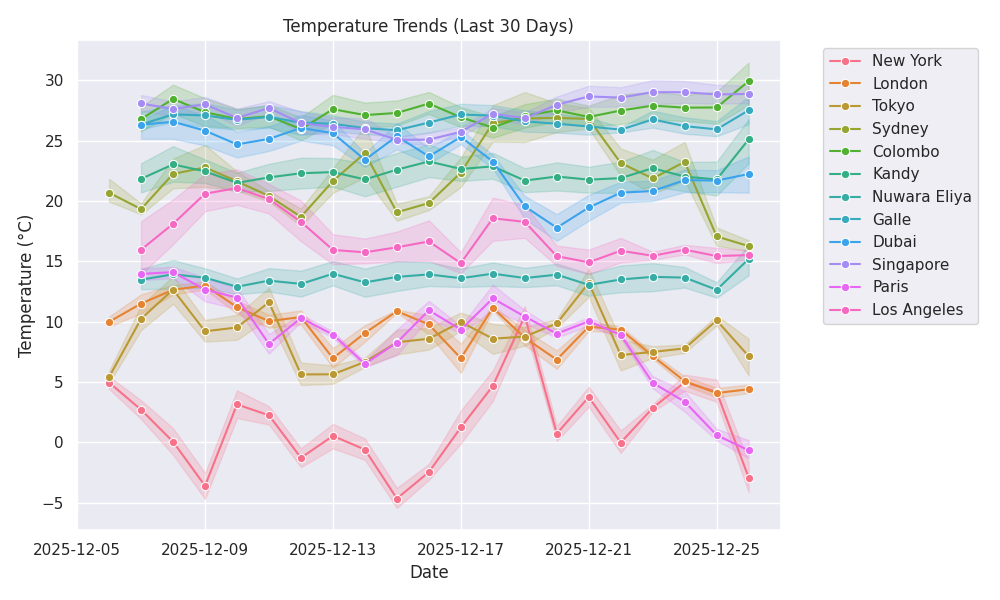
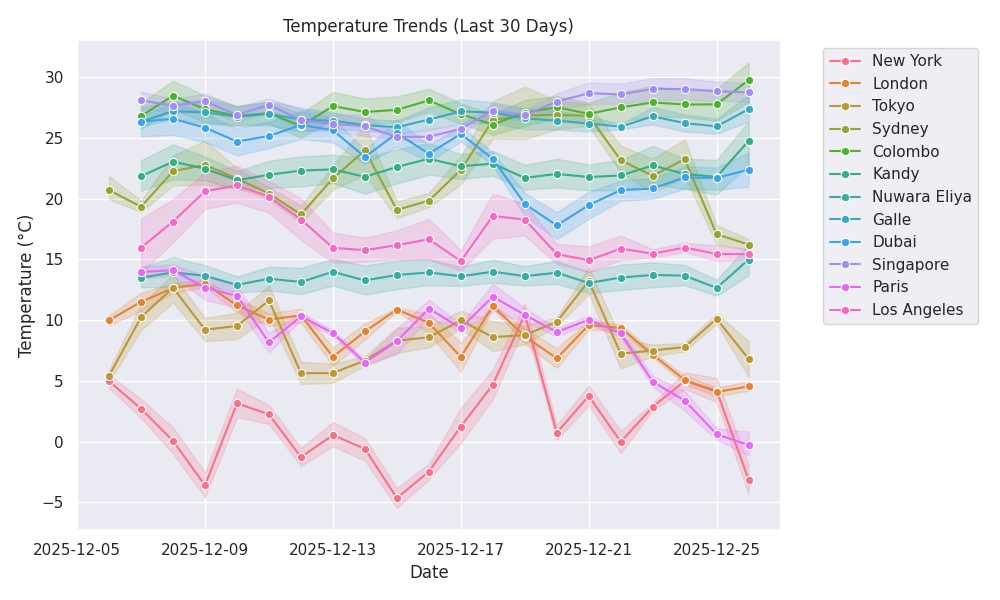
🌦 Weather update: 2025-12-26 13:28

diff --git a/public/index.html b/public/index.html
@@ -11,7 +11,7 @@
     <div class="max-w-6xl mx-auto">
         <header class="mb-8 text-center">
             <h1 class="text-4xl font-bold mb-2">🌍 Global Weather Dashboard</h1>
-            <p class="text-slate-400">Last Updated: 2025-12-26 12:26:13</p>
+            <p class="text-slate-400">Last Updated: 2025-12-26 13:28:01</p>
         </header>
         
         <!-- AI Summary -->
@@ -29,27 +29,27 @@
                     <span class="text-3xl">☀</span>
                 </div>
                 <div class="mt-4">
-                    <p class="text-4xl font-bold">2.29°C</p>
+                    <p class="text-4xl font-bold">3.87°C</p>
                     <p class="text-slate-400 capitalize">clear sky</p>
                 </div>
                 <div class="mt-4 text-sm text-slate-500">
-                    <p>💧 Humidity: 77%</p>
-                    <p>💨 Wind: 4.63 m/s</p>
+                    <p>💧 Humidity: 73%</p>
+                    <p>💨 Wind: 4.12 m/s</p>
                 </div>
             </div>
             
             <div class="bg-slate-800 p-6 rounded-xl shadow-lg border-t-4 border-blue-500 hover:scale-105 transition-transform">
                 <div class="flex justify-between items-start">
                     <h3 class="text-xl font-bold">London</h3>
-                    <span class="text-3xl">☁</span>
+                    <span class="text-3xl">☀</span>
                 </div>
                 <div class="mt-4">
-                    <p class="text-4xl font-bold">5.66°C</p>
-                    <p class="text-slate-400 capitalize">broken clouds</p>
+                    <p class="text-4xl font-bold">6.04°C</p>
+                    <p class="text-slate-400 capitalize">clear sky</p>
                 </div>
                 <div class="mt-4 text-sm text-slate-500">
                     <p>💧 Humidity: 78%</p>
-                    <p>💨 Wind: 4.02 m/s</p>
+                    <p>💨 Wind: 6.69 m/s</p>
                 </div>
             </div>
             
@@ -59,12 +59,12 @@
                     <span class="text-3xl">☁</span>
                 </div>
                 <div class="mt-4">
-                    <p class="text-4xl font-bold">15.66°C</p>
-                    <p class="text-slate-400 capitalize">few clouds</p>
+                    <p class="text-4xl font-bold">15.67°C</p>
+                    <p class="text-slate-400 capitalize">scattered clouds</p>
                 </div>
                 <div class="mt-4 text-sm text-slate-500">
                     <p>💧 Humidity: 61%</p>
-                    <p>💨 Wind: 4.63 m/s</p>
+                    <p>💨 Wind: 0.89 m/s</p>
                 </div>
             </div>
             
@@ -74,26 +74,26 @@
                     <span class="text-3xl">☁</span>
                 </div>
                 <div class="mt-4">
-                    <p class="text-4xl font-bold">27.5°C</p>
+                    <p class="text-4xl font-bold">27.11°C</p>
                     <p class="text-slate-400 capitalize">scattered clouds</p>
                 </div>
                 <div class="mt-4 text-sm text-slate-500">
-                    <p>💧 Humidity: 85%</p>
-                    <p>💨 Wind: 4.12 m/s</p>
+                    <p>💧 Humidity: 86%</p>
+                    <p>💨 Wind: 2.06 m/s</p>
                 </div>
             </div>
             
             <div class="bg-slate-800 p-6 rounded-xl shadow-lg border-t-4 border-blue-500 hover:scale-105 transition-transform">
                 <div class="flex justify-between items-start">
                     <h3 class="text-xl font-bold">Dubai</h3>
-                    <span class="text-3xl">☁</span>
+                    <span class="text-3xl">☀</span>
                 </div>
                 <div class="mt-4">
-                    <p class="text-4xl font-bold">24.96°C</p>
-                    <p class="text-slate-400 capitalize">few clouds</p>
+                    <p class="text-4xl font-bold">23.96°C</p>
+                    <p class="text-slate-400 capitalize">clear sky</p>
                 </div>
                 <div class="mt-4 text-sm text-slate-500">
-                    <p>💧 Humidity: 47%</p>
+                    <p>💧 Humidity: 53%</p>
                     <p>💨 Wind: 4.12 m/s</p>
                 </div>
             </div>
@@ -104,12 +104,12 @@
                     <span class="text-3xl">☁</span>
                 </div>
                 <div class="mt-4">
-                    <p class="text-4xl font-bold">26.11°C</p>
-                    <p class="text-slate-400 capitalize">overcast clouds</p>
+                    <p class="text-4xl font-bold">25.54°C</p>
+                    <p class="text-slate-400 capitalize">broken clouds</p>
                 </div>
                 <div class="mt-4 text-sm text-slate-500">
-                    <p>💧 Humidity: 80%</p>
-                    <p>💨 Wind: 2.65 m/s</p>
+                    <p>💧 Humidity: 84%</p>
+                    <p>💨 Wind: 2.68 m/s</p>
                 </div>
             </div>
             
@@ -119,12 +119,12 @@
                     <span class="text-3xl">☁</span>
                 </div>
                 <div class="mt-4">
-                    <p class="text-4xl font-bold">13.69°C</p>
+                    <p class="text-4xl font-bold">12.68°C</p>
                     <p class="text-slate-400 capitalize">overcast clouds</p>
                 </div>
                 <div class="mt-4 text-sm text-slate-500">
-                    <p>💧 Humidity: 86%</p>
-                    <p>💨 Wind: 1.14 m/s</p>
+                    <p>💧 Humidity: 91%</p>
+                    <p>💨 Wind: 1.21 m/s</p>
                 </div>
             </div>
             
@@ -134,12 +134,12 @@
                     <span class="text-3xl">☁</span>
                 </div>
                 <div class="mt-4">
-                    <p class="text-4xl font-bold">23.17°C</p>
+                    <p class="text-4xl font-bold">20.75°C</p>
                     <p class="text-slate-400 capitalize">overcast clouds</p>
                 </div>
                 <div class="mt-4 text-sm text-slate-500">
-                    <p>💧 Humidity: 77%</p>
-                    <p>💨 Wind: 2.09 m/s</p>
+                    <p>💧 Humidity: 89%</p>
+                    <p>💨 Wind: 1.99 m/s</p>
                 </div>
             </div>
             
@@ -149,12 +149,12 @@
                     <span class="text-3xl">☁</span>
                 </div>
                 <div class="mt-4">
-                    <p class="text-4xl font-bold">29.46°C</p>
-                    <p class="text-slate-400 capitalize">overcast clouds</p>
+                    <p class="text-4xl font-bold">27.8°C</p>
+                    <p class="text-slate-400 capitalize">scattered clouds</p>
                 </div>
                 <div class="mt-4 text-sm text-slate-500">
-                    <p>💧 Humidity: 71%</p>
-                    <p>💨 Wind: 6.38 m/s</p>
+                    <p>💧 Humidity: 78%</p>
+                    <p>💨 Wind: 6.47 m/s</p>
                 </div>
             </div>
             
@@ -164,12 +164,12 @@
                     <span class="text-3xl">☀</span>
                 </div>
                 <div class="mt-4">
-                    <p class="text-4xl font-bold">-5.81°C</p>
+                    <p class="text-4xl font-bold">-5.72°C</p>
                     <p class="text-slate-400 capitalize">clear sky</p>
                 </div>
                 <div class="mt-4 text-sm text-slate-500">
-                    <p>💧 Humidity: 57%</p>
-                    <p>💨 Wind: 7.72 m/s</p>
+                    <p>💧 Humidity: 54%</p>
+                    <p>💨 Wind: 7.2 m/s</p>
                 </div>
             </div>
             
@@ -179,27 +179,27 @@
                     <span class="text-3xl">☀</span>
                 </div>
                 <div class="mt-4">
-                    <p class="text-4xl font-bold">3.37°C</p>
+                    <p class="text-4xl font-bold">2.97°C</p>
                     <p class="text-slate-400 capitalize">clear sky</p>
                 </div>
                 <div class="mt-4 text-sm text-slate-500">
                     <p>💧 Humidity: 43%</p>
-                    <p>💨 Wind: 8.75 m/s</p>
+                    <p>💨 Wind: 9.26 m/s</p>
                 </div>
             </div>
             
             <div class="bg-slate-800 p-6 rounded-xl shadow-lg border-t-4 border-blue-500 hover:scale-105 transition-transform">
                 <div class="flex justify-between items-start">
                     <h3 class="text-xl font-bold">Los Angeles</h3>
-                    <span class="text-3xl">🌧</span>
+                    <span class="text-3xl">☁</span>
                 </div>
                 <div class="mt-4">
-                    <p class="text-4xl font-bold">14.44°C</p>
-                    <p class="text-slate-400 capitalize">light rain</p>
+                    <p class="text-4xl font-bold">14.39°C</p>
+                    <p class="text-slate-400 capitalize">overcast clouds</p>
                 </div>
                 <div class="mt-4 text-sm text-slate-500">
                     <p>💧 Humidity: 95%</p>
-                    <p>💨 Wind: 3.6 m/s</p>
+                    <p>💨 Wind: 5.14 m/s</p>
                 </div>
             </div>
             

diff --git a/README.md b/README.md
@@ -8,8 +8,8 @@
 
 ---
 
-## ⚡ Live Status (Updated: 2025-12-26 12:26 UTC)
-![Paris](https://img.shields.io/badge/Paris-2.29°C-blue) ![London](https://img.shields.io/badge/London-5.66°C-blue) ![Sydney](https://img.shields.io/badge/Sydney-15.66°C-green) ![Singapore](https://img.shields.io/badge/Singapore-27.5°C-orange) ![Dubai](https://img.shields.io/badge/Dubai-24.96°C-green) ![Galle](https://img.shields.io/badge/Galle-26.11°C-orange) ![Nuwara Eliya](https://img.shields.io/badge/Nuwara%20Eliya-13.69°C-blue) ![Kandy](https://img.shields.io/badge/Kandy-23.17°C-green) ![Colombo](https://img.shields.io/badge/Colombo-29.46°C-orange) ![New York](https://img.shields.io/badge/New%20York--5.81°C-blue) ![Tokyo](https://img.shields.io/badge/Tokyo-3.37°C-blue) ![Los Angeles](https://img.shields.io/badge/Los%20Angeles-14.44°C-blue) 
+## ⚡ Live Status (Updated: 2025-12-26 13:28 UTC)
+![Paris](https://img.shields.io/badge/Paris-3.87°C-blue) ![London](https://img.shields.io/badge/London-6.04°C-blue) ![Sydney](https://img.shields.io/badge/Sydney-15.67°C-green) ![Singapore](https://img.shields.io/badge/Singapore-27.11°C-orange) ![Dubai](https://img.shields.io/badge/Dubai-23.96°C-green) ![Galle](https://img.shields.io/badge/Galle-25.54°C-orange) ![Nuwara Eliya](https://img.shields.io/badge/Nuwara%20Eliya-12.68°C-blue) ![Kandy](https://img.shields.io/badge/Kandy-20.75°C-green) ![Colombo](https://img.shields.io/badge/Colombo-27.8°C-orange) ![New York](https://img.shields.io/badge/New%20York--5.72°C-blue) ![Tokyo](https://img.shields.io/badge/Tokyo-2.97°C-blue) ![Los Angeles](https://img.shields.io/badge/Los%20Angeles-14.39°C-blue) 
 
 <div align="center">
   <h3>🏆 Weather Records (Live)</h3>
@@ -19,8 +19,8 @@
         <td align="center">❄ <b>Coldest City</b></td>
     </tr>
     <tr>
-        <td align="center"><b>Colombo</b><br>29.46°C</td>
-        <td align="center"><b>New York</b><br>-5.81°C</td>
+        <td align="center"><b>Colombo</b><br>27.8°C</td>
+        <td align="center"><b>New York</b><br>-5.72°C</td>
     </tr>
   </table>
 </div>
@@ -28,18 +28,18 @@
 ## 📊 Global Overview
 | 🌍 City | 🌡 Temp | 🌤 Condition | 💧 Humidity | 🌬 Wind |
 |---|---|---|---|---|
-| **Paris** | 2.29°C | clear sky | 🟦🟦🟦⬜⬜ 77% | 4.63 m/s |
-| **London** | 5.66°C | broken clouds | 🟦🟦🟦⬜⬜ 78% | 4.02 m/s |
-| **Sydney** | 15.66°C | few clouds | 🟦🟦🟦⬜⬜ 61% | 4.63 m/s |
-| **Singapore** | 27.5°C | scattered clouds | 🟦🟦🟦🟦⬜ 85% | 4.12 m/s |
-| **Dubai** | 24.96°C | few clouds | 🟦🟦⬜⬜⬜ 47% | 4.12 m/s |
-| **Galle** | 26.11°C | overcast clouds | 🟦🟦🟦🟦⬜ 80% | 2.65 m/s |
-| **Nuwara Eliya** | 13.69°C | overcast clouds | 🟦🟦🟦🟦⬜ 86% | 1.14 m/s |
-| **Kandy** | 23.17°C | overcast clouds | 🟦🟦🟦⬜⬜ 77% | 2.09 m/s |
-| **Colombo** | 29.46°C | overcast clouds | 🟦🟦🟦⬜⬜ 71% | 6.38 m/s |
-| **New York** | -5.81°C | clear sky | 🟦🟦⬜⬜⬜ 57% | 7.72 m/s |
-| **Tokyo** | 3.37°C | clear sky | 🟦🟦⬜⬜⬜ 43% | 8.75 m/s |
-| **Los Angeles** | 14.44°C | light rain | 🟦🟦🟦🟦⬜ 95% | 3.6 m/s |
+| **Paris** | 3.87°C | clear sky | 🟦🟦🟦⬜⬜ 73% | 4.12 m/s |
+| **London** | 6.04°C | clear sky | 🟦🟦🟦⬜⬜ 78% | 6.69 m/s |
+| **Sydney** | 15.67°C | scattered clouds | 🟦🟦🟦⬜⬜ 61% | 0.89 m/s |
+| **Singapore** | 27.11°C | scattered clouds | 🟦🟦🟦🟦⬜ 86% | 2.06 m/s |
+| **Dubai** | 23.96°C | clear sky | 🟦🟦⬜⬜⬜ 53% | 4.12 m/s |
+| **Galle** | 25.54°C | broken clouds | 🟦🟦🟦🟦⬜ 84% | 2.68 m/s |
+| **Nuwara Eliya** | 12.68°C | overcast clouds | 🟦🟦🟦🟦⬜ 91% | 1.21 m/s |
+| **Kandy** | 20.75°C | overcast clouds | 🟦🟦🟦🟦⬜ 89% | 1.99 m/s |
+| **Colombo** | 27.8°C | scattered clouds | 🟦🟦🟦⬜⬜ 78% | 6.47 m/s |
+| **New York** | -5.72°C | clear sky | 🟦🟦⬜⬜⬜ 54% | 7.2 m/s |
+| **Tokyo** | 2.97°C | clear sky | 🟦🟦⬜⬜⬜ 43% | 9.26 m/s |
+| **Los Angeles** | 14.39°C | overcast clouds | 🟦🟦🟦🟦⬜ 95% | 5.14 m/s |
 
 
 ## 📈 Temperature Trends
